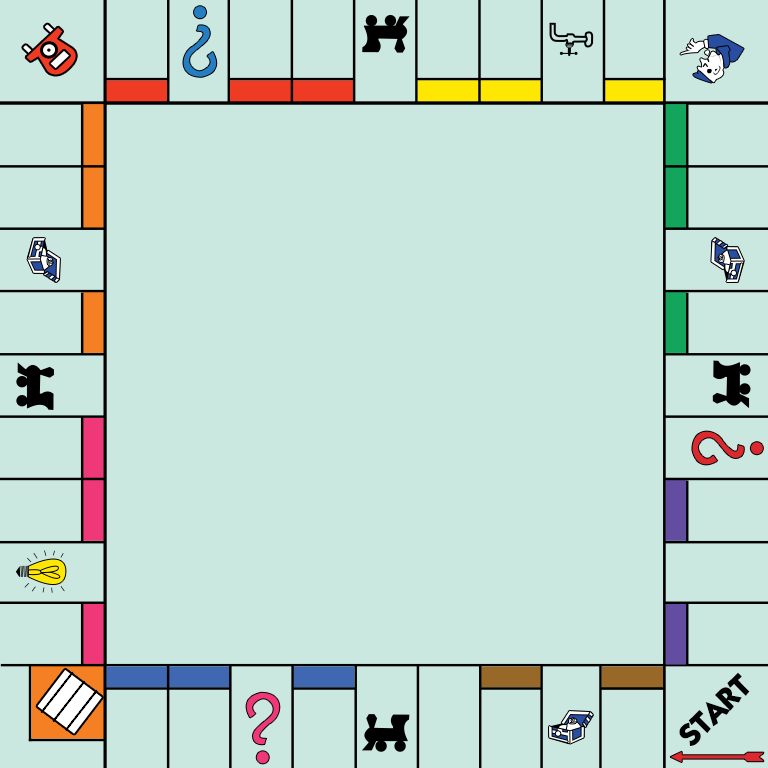
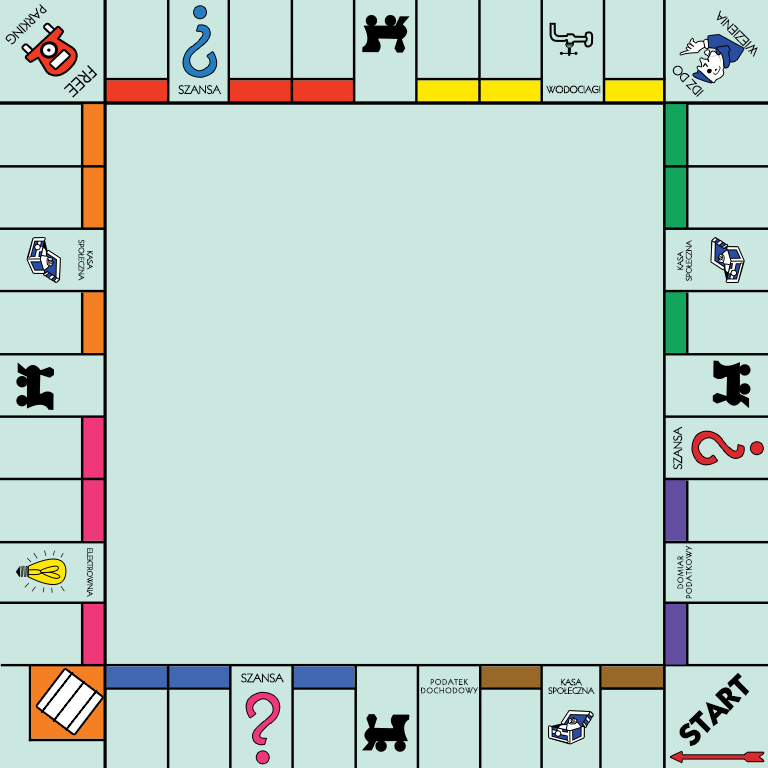
Added prices to BoardView and modified board texture

diff --git a/BoardView.qml b/BoardView.qml
@@ -692,6 +692,13 @@ Item {
             y: 0
             width: 61
             height: 22
+            Text {
+                id: price23
+                text: "$"+board.tile(23).Price
+                anchors.horizontalCenter: parent.horizontalCenter
+                anchors.verticalCenter: parent.verticalCenter
+                font.pixelSize: 12
+            }
         }
 
         Item {
@@ -700,6 +707,13 @@ Item {
             y: 0
             width: 60
             height: 22
+            Text {
+                id: price24
+                text: "$"+board.tile(24).Price
+                anchors.horizontalCenter: parent.horizontalCenter
+                anchors.verticalCenter: parent.verticalCenter
+                font.pixelSize: 12
+            }
         }
 
         Item {
@@ -708,6 +722,13 @@ Item {
             y: 53
             width: 60
             height: 25
+            Text {
+                id: price25
+                text: "$"+board.tile(25).Price
+                anchors.horizontalCenter: parent.horizontalCenter
+                anchors.verticalCenter: parent.verticalCenter
+                font.pixelSize: 12
+            }
         }
 
         Item {
@@ -716,6 +737,13 @@ Item {
             y: 0
             width: 60
             height: 22
+            Text {
+                id: price26
+                text: "$"+board.tile(26).Price
+                anchors.horizontalCenter: parent.horizontalCenter
+                anchors.verticalCenter: parent.verticalCenter
+                font.pixelSize: 12
+            }
         }
 
         Item {
@@ -724,6 +752,13 @@ Item {
             y: 0
             width: 59
             height: 22
+            Text {
+                id: price27
+                text: "$"+board.tile(27).Price
+                anchors.horizontalCenter: parent.horizontalCenter
+                anchors.verticalCenter: parent.verticalCenter
+                font.pixelSize: 12
+            }
         }
 
         Item {
@@ -732,6 +767,13 @@ Item {
             y: 0
             width: 60
             height: 22
+            Text {
+                id: price28
+                text: "$"+board.tile(28).Price
+                anchors.horizontalCenter: parent.horizontalCenter
+                anchors.verticalCenter: parent.verticalCenter
+                font.pixelSize: 12
+            }
         }
 
         Item {
@@ -740,6 +782,13 @@ Item {
             y: 0
             width: 58
             height: 22
+            Text {
+                id: price29
+                text: "$"+board.tile(29).Price
+                anchors.horizontalCenter: parent.horizontalCenter
+                anchors.verticalCenter: parent.verticalCenter
+                font.pixelSize: 12
+            }
         }
 
         Item {
@@ -756,6 +805,14 @@ Item {
             y: 105
             width: 22
             height: 60
+            Text {
+                id: price31
+                text: "$"+board.tile(31).Price
+                rotation: 270
+                anchors.horizontalCenter: parent.horizontalCenter
+                anchors.verticalCenter: parent.verticalCenter
+                font.pixelSize: 12
+            }
         }
 
         Item {
@@ -764,6 +821,14 @@ Item {
             y: 168
             width: 22
             height: 59
+            Text {
+                id: price32
+                text: "$"+board.tile(32).Price
+                rotation: 270
+                anchors.horizontalCenter: parent.horizontalCenter
+                anchors.verticalCenter: parent.verticalCenter
+                font.pixelSize: 12
+            }
         }
 
         Item {
@@ -780,6 +845,14 @@ Item {
             y: 292
             width: 22
             height: 61
+            Text {
+                id: price34
+                text: "$"+board.tile(34).Price
+                rotation: 270
+                anchors.horizontalCenter: parent.horizontalCenter
+                anchors.verticalCenter: parent.verticalCenter
+                font.pixelSize: 12
+            }
         }
 
         Item {
@@ -788,6 +861,14 @@ Item {
             y: 356
             width: 24
             height: 59
+            Text {
+                id: price35
+                text: "$"+board.tile(35).Price
+                rotation: 270
+                anchors.horizontalCenter: parent.horizontalCenter
+                anchors.verticalCenter: parent.verticalCenter
+                font.pixelSize: 12
+            }
         }
 
         Item {
@@ -804,6 +885,14 @@ Item {
             y: 480
             width: 22
             height: 61
+            Text {
+                id: price37
+                text: "$"+board.tile(37).Price
+                rotation: 270
+                anchors.horizontalCenter: parent.horizontalCenter
+                anchors.verticalCenter: parent.verticalCenter
+                font.pixelSize: 12
+            }
         }
 
         Item {
@@ -812,6 +901,14 @@ Item {
             y: 544
             width: 22
             height: 57
+            Text {
+                id: price38
+                text: "$"+board.tile(38).Amount
+                rotation: 270
+                anchors.horizontalCenter: parent.horizontalCenter
+                anchors.verticalCenter: parent.verticalCenter
+                font.pixelSize: 12
+            }
         }
 
         Item {
@@ -820,6 +917,14 @@ Item {
             y: 604
             width: 22
             height: 60
+            Text {
+                id: price39
+                text: "$"+board.tile(39).Price
+                rotation: 270
+                anchors.horizontalCenter: parent.horizontalCenter
+                anchors.verticalCenter: parent.verticalCenter
+                font.pixelSize: 12
+            }
         }
 
 
@@ -836,4 +941,8 @@ Item {
 
     }
 
+    Item {
+        id: names
+
+    }
 }
